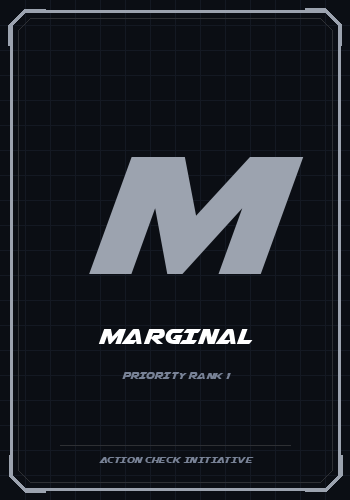
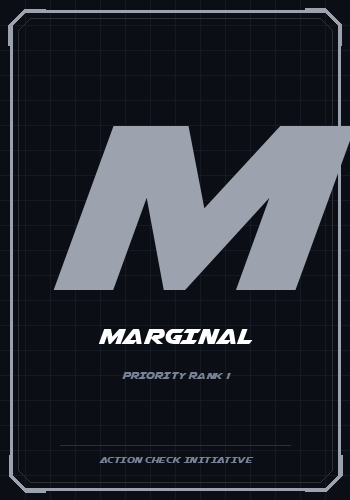
style: increase central phase letter size to 310 (40% larger) in Airstrike cards

Changed region(s): [[0.1429, 0.24, 1.0, 0.6], [0.6571, 0.33, 0.6857, 0.36], [0.6286, 0.36, 0.6571, 0.39]]

diff --git a/generate_cards.py b/generate_cards.py
@@ -78,9 +78,9 @@ def draw_sci_fi_card(phase_name, priority, color_hex):
     
     # Huge Central Letter (A, G, O, M) - Pointy and Massive in Airstrike!
     central_letter = phase_name[0].upper()
-    font_large_letter = get_font(220)
+    font_large_letter = get_font(310)
     # Airstrike has wide characters, middle centering is perfect
-    draw.text((w/2, h/2 - 40), central_letter, fill=accent_color, font=font_large_letter, anchor="mm")
+    draw.text((w/2, h/2 - 50), central_letter, fill=accent_color, font=font_large_letter, anchor="mm")
     
     # Full Phase Name below letter
     font_phase = get_font(28)
